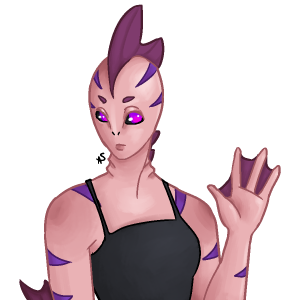
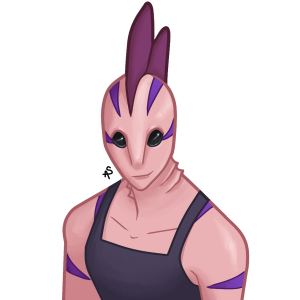
egg

diff --git a/races3.html b/races3.html
@@ -2002,7 +2002,7 @@
 		  		<div class="racecontent">
 					<div class="raceinfo">
 						<div class="photo2">
-						  <img src="images/races/default2.png" class="small racepic"/>
+						  <img src="images/races/skelekin2.png" class="small racepic"/>
 						</div>
 						<div class="textsplat">
 							<p class="indent">Officially, no one (not even the Skelekins themselves) know how or why they exist. These newcomers to the galactic scene violate all known laws of life in ways never before seen.</p>
@@ -5140,7 +5140,7 @@
 		  		<div class="racecontent">
 					<div class="raceinfo">
 						<div class="photo2">
-						  <img src="images/races/default2.png" class="small racepic"/>
+						  <img src="images/races/xenonian2.png" class="small racepic"/>
 						</div>
 						<div class="textsplat">
 							<p class="indent">Slug-like aliens from Xen-789. Skilled in biotic weaponry, the Xenonians are immune to toxicity, but are stressed in clean and sanitary conditions.</p>
